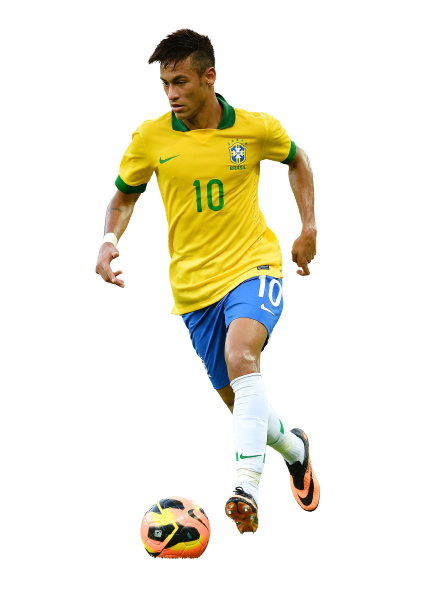
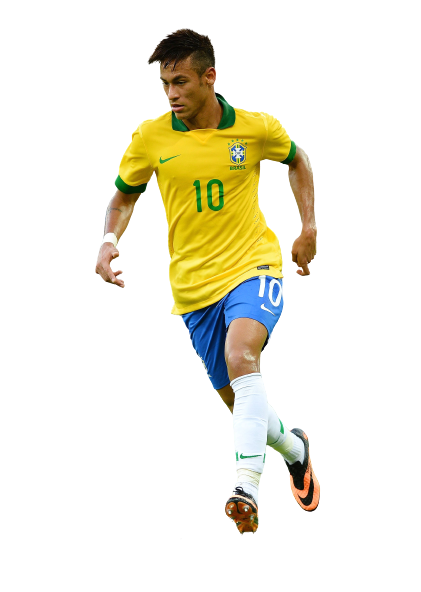
att all

Changed region(s): [[0.3088, 0.8209, 0.5249, 0.9426]]

diff --git a/site/public/dashboard/js/dashboard.js b/site/public/dashboard/js/dashboard.js
@@ -1909,30 +1909,30 @@
                             <b><p>1º</p></b>
                             <img src="${imagem}" alt="">
                             <p>${nome}</p>
-                            <p><i>Votos: ${rank}</i></p>`
+                            <p><i>Votos: <b>${rank}</b></i></p>`
                         } else if (i == 1) {
                             circle2.innerHTML = `
                             <b><p>2º</p></b>
                             <img src="${imagem}" alt="">
                             <p>${nome}</p>
-                            <p><i>Votos: ${rank}</i></p>`
+                            <p><i>Votos: <b>${rank}</b></i></p>`
                         } else if (i == 2) {
                             circle3.innerHTML = `
                             <b><p>3º</p></b>
                             <img src="${imagem}" alt="">
                             <p>${nome}</p>
-                            <p><i>Votos: ${rank}</i></p>`
+                            <p><i>Votos: <b>${rank}</b></i></p>`
                         }
 
 
-                        if (i >= 3) {
+                        if (i > 3) {
                             table2.innerHTML += `
                             <div class="lineTable">
                                 <b><p>${i}º</p></b>
                                 <div class="table2-box">
                                     <img src="${imagem}" alt="">
                                     <p>${nome}</p>
-                                    <p><i>Votos: ${rank}</i></p>
+                                    <p><i>Votos: <b>${rank}</b></i></p>
                                 </div>
                             </div>`
                         }

diff --git a/site/public/dashboard/css/dashboard.css b/site/public/dashboard/css/dashboard.css
@@ -9,6 +9,7 @@
     align-items: center;
     padding: 0px 20px 0px 20px;
     position: absolute;
+    box-shadow: 0 20px 50px 3px rgb(47 47 47 / 11%);
 }
 
 .navbar img {
@@ -22,7 +23,7 @@
 .menu {
     width: 200px;
     height: 400px;
-    background-color: rgb(21, 21, 21);
+    background-color: rgb(25, 25, 25);
     border-radius: 10px;
     position: absolute;
     right: 20px;
@@ -54,15 +55,16 @@
     /* background: linear-gradient(90deg, rgba(16,36,110,1) 11%, rgba(47,91,176,1) 50%, rgba(77,173,223,1) 91%); */
     /* background-repeat: no-repeat; */
     background-size: 100vw;
-    background: rgb(40,40,40);
-    background: linear-gradient(90deg, rgba(40,40,40,1) 40%, rgba(55,55,55,1) 80%);
+    /* background: rgb(40,40,40); */
+    /* background: linear-gradient(90deg, rgba(40,40,40,1) 40%, rgba(55,55,55,1) 80%); */
+    background-color: #F5F5F5;
 }
 
 .background {
     /* background-color: rgba(0, 0, 0, 0.4); */
     width: 100%;
     height: 100%;
-    background-color: rgba(0, 0, 0, 0.3);
+    /* background-color: rgba(0, 0, 0, 0.3); */
     display: flex;
     justify-content: space-between;
 }
@@ -355,6 +357,12 @@ a {
     width: 20vw;
     height: 100%;
     font-size: 20px;
-    font-weight: 700;
-    color: white;
+    font-weight: 300;
+    color: #252525;
+}
+
+.backgroundBox1 {
+    display: flex;
+    flex-direction: column;
+    height: 100%;
 }

diff --git a/site/public/dashboard/dashboard.html b/site/public/dashboard/dashboard.html
@@ -13,7 +13,7 @@
     
     <div class="navbar">
         <div class="divIdolo">
-            <p>Diesport</p>
+            <p>FOOTech</p>
         </div>
 
         <div class="divSelecao" id="divSelecao">
@@ -21,7 +21,7 @@
         </div>
 
         <div class="divProfile">
-            <img src="../assets/img/icon/do-utilizador2.png" alt="" onclick="menu()">
+            <img src="../assets/img/icon/do-utilizador.png" alt="" onclick="menu()">
         </div>
     </div>
 
@@ -43,7 +43,7 @@
         <div class="screen">
             <div class="background">
 
-                <div class="bagroundBox1">
+                
                     <div class="bandeirao" id="bandeirao">
                         <img id="imgBandeirao" src="" alt="">
                     </div>
@@ -103,7 +103,7 @@
                             </div>
                         </div>
                     </div>
-                </div>
+                
 
                 <div class="backgroundBox2">
 

diff --git a/site/public/css/sobre.css b/site/public/css/sobre.css
@@ -134,7 +134,7 @@ h2 {
     display: flex;
     align-items: center;
     justify-content: space-between;
-    border-bottom: 1px solid #252525;
+    /* border-bottom: 1px solid #252525; */
 }
 
 .container4 .sobre {
@@ -195,4 +195,27 @@ h2 {
     height: 100%;
     font-size: 20px;
     font-weight: 300;
+}
+
+.diego {
+    width: 100vw;
+    height: 100vh;
+    background-color: #f1f1f1;
+    display: flex;
+    justify-content: space-between;
+    padding: 10px;
+}
+
+.backgroundEstadio {
+    width: 30vw;
+    height: 100%;
+    background-image: url(../assets/img/background/estadio.jpg);
+    background-size: cover;
+    background-position: center;
+    border-radius: 10px;
+}
+
+.textoEu {
+    width: 70vw;
+    height: 100%;
 }

diff --git a/site/public/dashboard/css/ranking.css b/site/public/dashboard/css/ranking.css
@@ -28,7 +28,7 @@
 }
 
 .table1 {
-    color: white;
+    color: #252525;
     display: flex;
     justify-content: center;
     align-items: center;
@@ -96,7 +96,7 @@
     flex-direction: column;
     align-items: center;
     padding: 10px;
-    color: white;
+    color: #252525;
 }
 
 .lineTable {
@@ -114,7 +114,7 @@
     /* background-color: rgba(255, 255, 255, 0.1); */
     box-shadow: 0 20px 50px 3px rgb(47 47 47 / 11%);
     width: 17vw;
-    height: 8vh;
+    height: 7vh;
     display: flex;
     flex-direction: row;
     justify-content: space-between;

diff --git a/site/public/css/style.css b/site/public/css/style.css
@@ -129,8 +129,26 @@ h2 {
 
 .imgJogador {
     position: absolute;
-    bottom: -2rem;
+    /* bottom: -2rem; */
+    top: 90px;
     left: 20rem;
+    animation: neymar 2s infinite;
+
+}
+
+@keyframes neymar {
+    0%{
+        top: 80px;
+    }
+
+    50%{
+        top: 90px;
+    }
+
+    100%{
+        top: 80px;
+    }
+
 }
 
 .blackBar .container2 h1{

diff --git a/site/src/database/config.js b/site/src/database/config.js
@@ -21,8 +21,8 @@ var sqlServerConfig = {
 var mySqlConfig = {
     host: "localhost",
     database: "projeto",
-    user: "aluno",
-    password: "sptech",
+    user: "root",
+    password: "#Gf47643238855",
 };
 
 function executar(instrucao) {

diff --git a/site/public/sobre.html b/site/public/sobre.html
@@ -164,6 +164,16 @@
 
         </div>
 
+        <div class="diego">
+            <div class="backgroundEstadio">
+
+            </div>
+
+            <div class="textoEu">
+
+            </div>
+        </div>
+
     </main>
 
 </body>

diff --git a/site/public/dashboard/matamata.html b/site/public/dashboard/matamata.html
@@ -13,7 +13,7 @@
     
     <div class="navbar">
         <div class="divIdolo">
-            <p>Diesport</p>
+            <p>FOOTech</p>
         </div>
 
         <div class="divSelecao" id="divSelecao">

diff --git a/site/public/dashboard/quiz.html b/site/public/dashboard/quiz.html
@@ -14,7 +14,7 @@
     
     <div class="navbar">
         <div class="divIdolo">
-            <p>Diesport</p>
+            <p>FOOTech</p>
         </div>
 
         <div class="divSelecao" id="divSelecao">

diff --git a/site/public/dashboard/ranking.html b/site/public/dashboard/ranking.html
@@ -16,7 +16,7 @@
     
     <div class="navbar">
         <div class="divIdolo">
-            <p>Diesport</p>
+            <p>FOOTech</p>
         </div>
 
         <div class="divSelecao" id="divSelecao">
